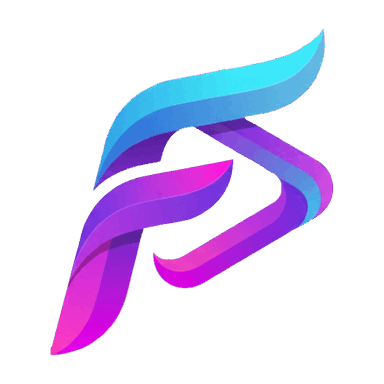
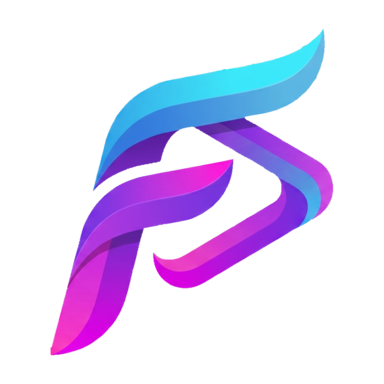
fix(cast): add Shaka error surfacing to the receiver (#39)
* fix(cast): add Shaka error surfacing to the receiver

Without telemetry the receiver was effectively a black box once the
splash showed; if Shaka can't load the manifest or trips on a segment,
nothing surfaces. Add:

- DEBUG logger level so CAF + Shaka emit verbose traces in chrome://inspect.
- ERROR event listener that JSON-stringifies the CAF event so we get
  detailedErrorCode + the underlying Shaka error.error data.
- LOAD interceptor logs contentId/contentType on every load attempt.
- supportedCommands = ALL_BASIC_MEDIA, set explicitly to mirror the
  intended sender transport-controls.

No behaviour change beyond logging; the Shaka switch from #35 stays.

* fix(cast): regenerate splash as truecolor PNG (Cast device couldn't render the palette variant)

PR #36 quantized the splash to a 256-color palette PNG (16K). The
on-device receiver showed only the .splash-tagline text — the <img> sat
empty. Resize stays at 384×384 (the largest the splash CSS ever needs at
2× DPR) but skip palette quantization: keep RGBA truecolor. 111K instead
of 16K, still 72% under the original 397K and renders everywhere.

---------

diff --git a/cast-receiver/receiver.js b/cast-receiver/receiver.js
@@ -3,7 +3,8 @@
  * Fliks Cast Receiver — minimal CAF receiver bootstrap.
  *
  * The receiver is a thin shell:
- *   1. CAF SDK runs the player (HLS / MP4 via shaka-packaged Cast).
+ *   1. CAF SDK runs the player. `useShakaForHls` switches HLS playback to
+ *      Shaka — the same engine the Fliks web/Android paths use.
  *   2. We hook LOAD to apply Fliks-specific defaults (subtitle styling,
  *      idle splash toggling) and forward whatever the sender sent.
  *   3. customData is reserved for future-extension features
@@ -18,6 +19,12 @@
 const context = cast.framework.CastReceiverContext.getInstance();
 const playerManager = context.getPlayerManager();
 
+// Verbose CAF + Shaka logging — surfaces in chrome://inspect on the
+// receiver, the only practical way to diagnose a Cast freeze or load
+// failure on a real device.
+context.setLoggerLevel(cast.framework.LoggerLevel.DEBUG);
+console.log('[fliks-cast] receiver boot start');
+
 // --- Idle splash visibility ---------------------------------------------
 //
 // CAF doesn't expose a "media is showing" flag directly — we infer it from
@@ -25,12 +32,14 @@ const playerManager = context.getPlayerManager();
 
 playerManager.addEventListener(
   cast.framework.events.EventType.PLAYER_LOAD_COMPLETE,
-  () => document.body.classList.add('playing'),
+  () => {
+    console.log('[fliks-cast] PLAYER_LOAD_COMPLETE');
+    document.body.classList.add('playing');
+  },
 );
 
 [
   cast.framework.events.EventType.MEDIA_FINISHED,
-  cast.framework.events.EventType.ERROR,
   cast.framework.events.EventType.ABORT,
   cast.framework.events.EventType.ENDED,
 ].forEach((evt) => {
@@ -38,6 +47,16 @@ playerManager.addEventListener(
     document.body.classList.remove('playing'),
   );
 });
+
+// Surface any player error on the device's DevTools console with the full
+// CAF event payload (detailedErrorCode, reason, shaka-side error data).
+playerManager.addEventListener(
+  cast.framework.events.EventType.ERROR,
+  (event) => {
+    console.error('[fliks-cast] ERROR', JSON.stringify(event));
+    document.body.classList.remove('playing');
+  },
+);
 
 // --- Subtitle styling baked into every load -----------------------------
 //
@@ -48,6 +67,12 @@ playerManager.addEventListener(
 playerManager.setMessageInterceptor(
   cast.framework.messages.MessageType.LOAD,
   (loadRequest) => {
+    console.log(
+      '[fliks-cast] LOAD intercepted — contentId=',
+      loadRequest.media?.contentId,
+      'contentType=',
+      loadRequest.media?.contentType,
+    );
     const media = loadRequest.media;
     if (media && !media.textTrackStyle) {
       const style = new cast.framework.messages.TextTrackStyle();
@@ -74,10 +99,14 @@ playerManager.setMessageInterceptor(
 // queue/skip-intro features work later without re-launching the app.
 // `autoResumeDuration: 5` starts/resumes playback on 5s of buffered media
 // (default 10) — snappier resume after a seek or transient stall.
+// `supportedCommands` is set explicitly so the sender's transport
+// controls (play/pause/seek/skip-ad) are all advertised.
 
 const options = new cast.framework.CastReceiverOptions();
 options.disableIdleTimeout = true;
 options.useShakaForHls = true;
 options.playbackConfig = new cast.framework.PlaybackConfig();
 options.playbackConfig.autoResumeDuration = 5;
+options.supportedCommands = cast.framework.messages.Command.ALL_BASIC_MEDIA;
 context.start(options);
+console.log('[fliks-cast] context.start called');
